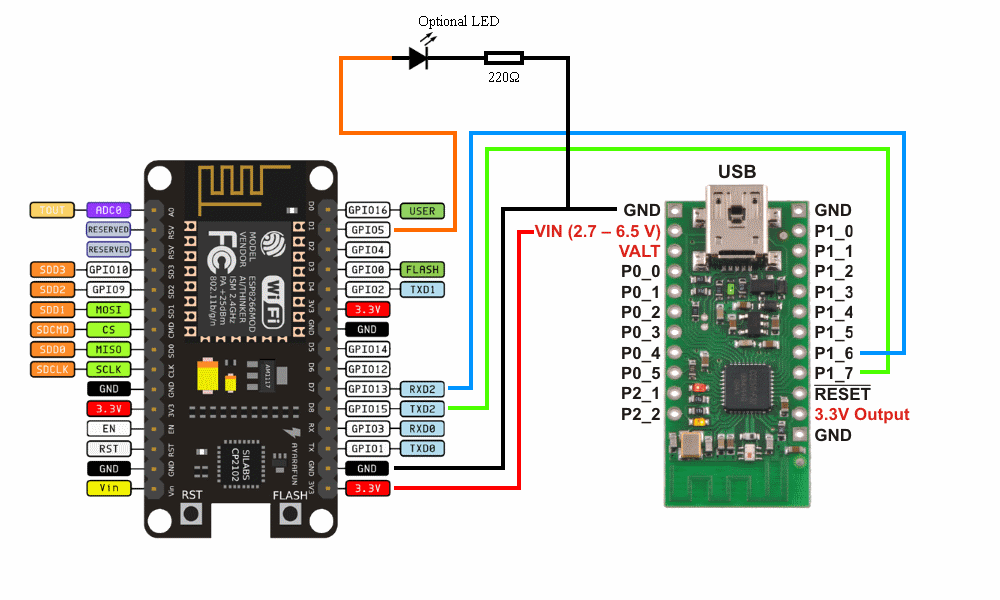
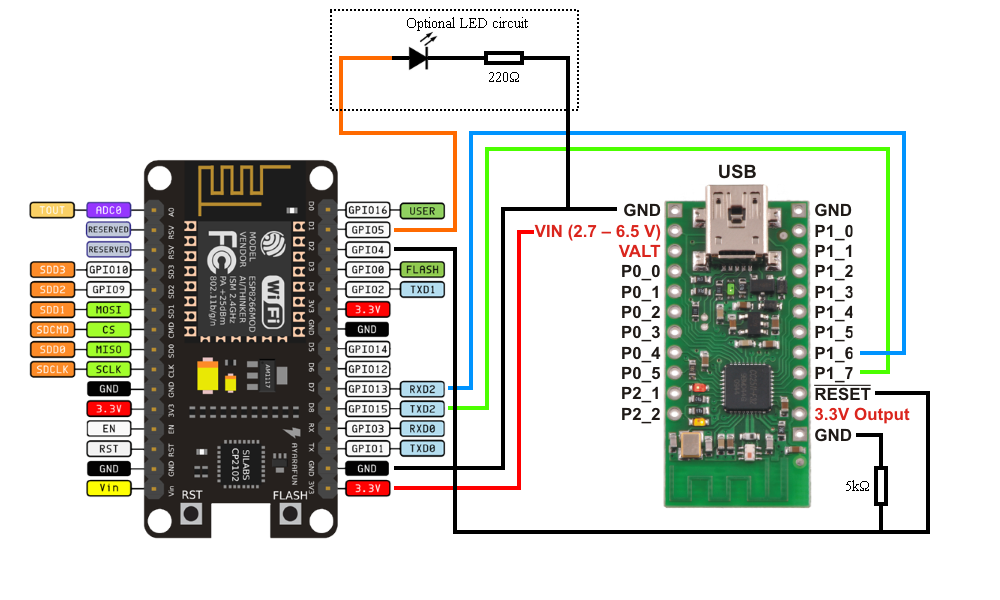
Fix to prevent the NodeMCU from booting into the wrong mode in some cases.
In some combinations of hardware the Wixel keeps GPIO15 on the NodeMCU
high during boot. Then the NodeMCU will boot into the wrong mode. Fixed
this with a pull-down resistor that keeps the Wixel in reset during
boot, as suggested by WanaGo.
See https://github.com/MrPsi/NodeMCU-Wixel/issues/13

Changed region(s): [[0.403, 0.39, 0.93, 0.9], [0.403, 0.03, 0.527, 0.06], [0.186, 0.63, 0.217, 0.66]]

diff --git a/README.md b/README.md
@@ -10,8 +10,10 @@ Example use<br><br>
 # What you need
 * A [Wixel](http://www.hobbytronics.co.uk/wixel-usb-wireless-module) ~15 €
 * A [NodeMCU](http://www.ebay.co.uk/itm/NodeMCU-LUA-WIFI-Internet-Development-Board-Based-on-ESP8266-/291505733201?hash=item43df187e51:g:iikAAOSwHPlWeoBr) ~4 €
+* A 5kΩ resistor.
+* A LED and 220Ω resistor. (Optional)
+* Cables and a stripboard, perfboard or breadboard depending on how it should be assembled.
 * A micro usb charger (An old phone charger works great.)
-* A stripboard, perfboard or breadboard and cables depending on how it should be assembled.
 * A box to put it in. (Optional)
 * A Wifi network to connect the nodes too.
 * An Android device (phone/tablet/computer)
